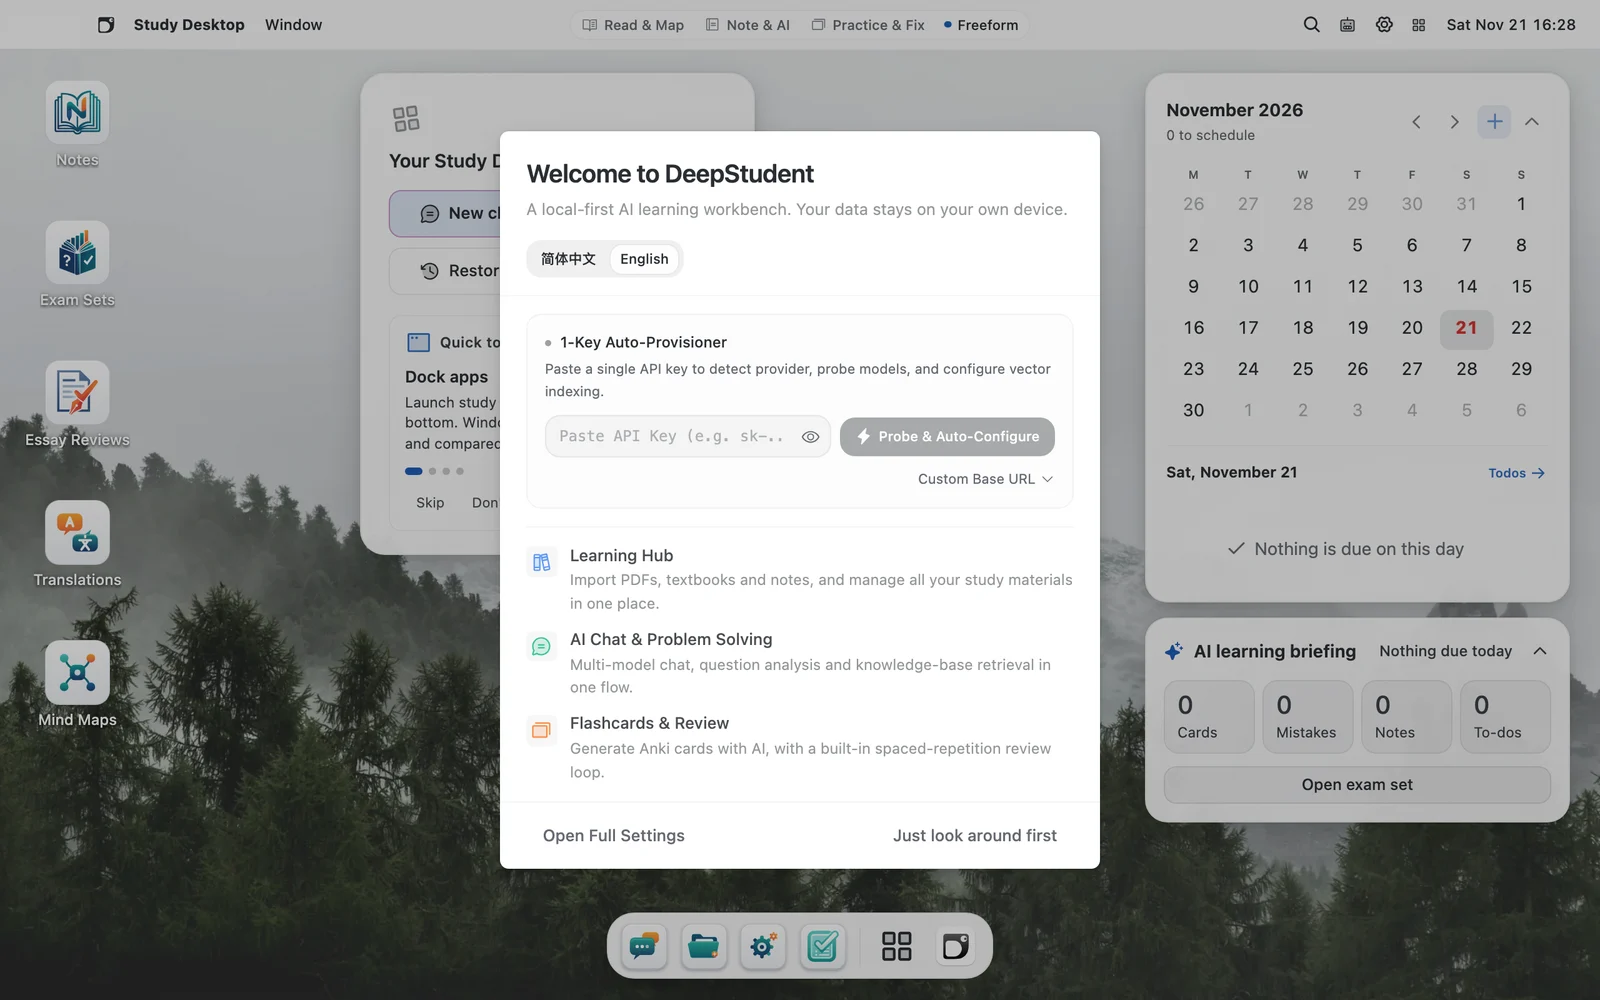
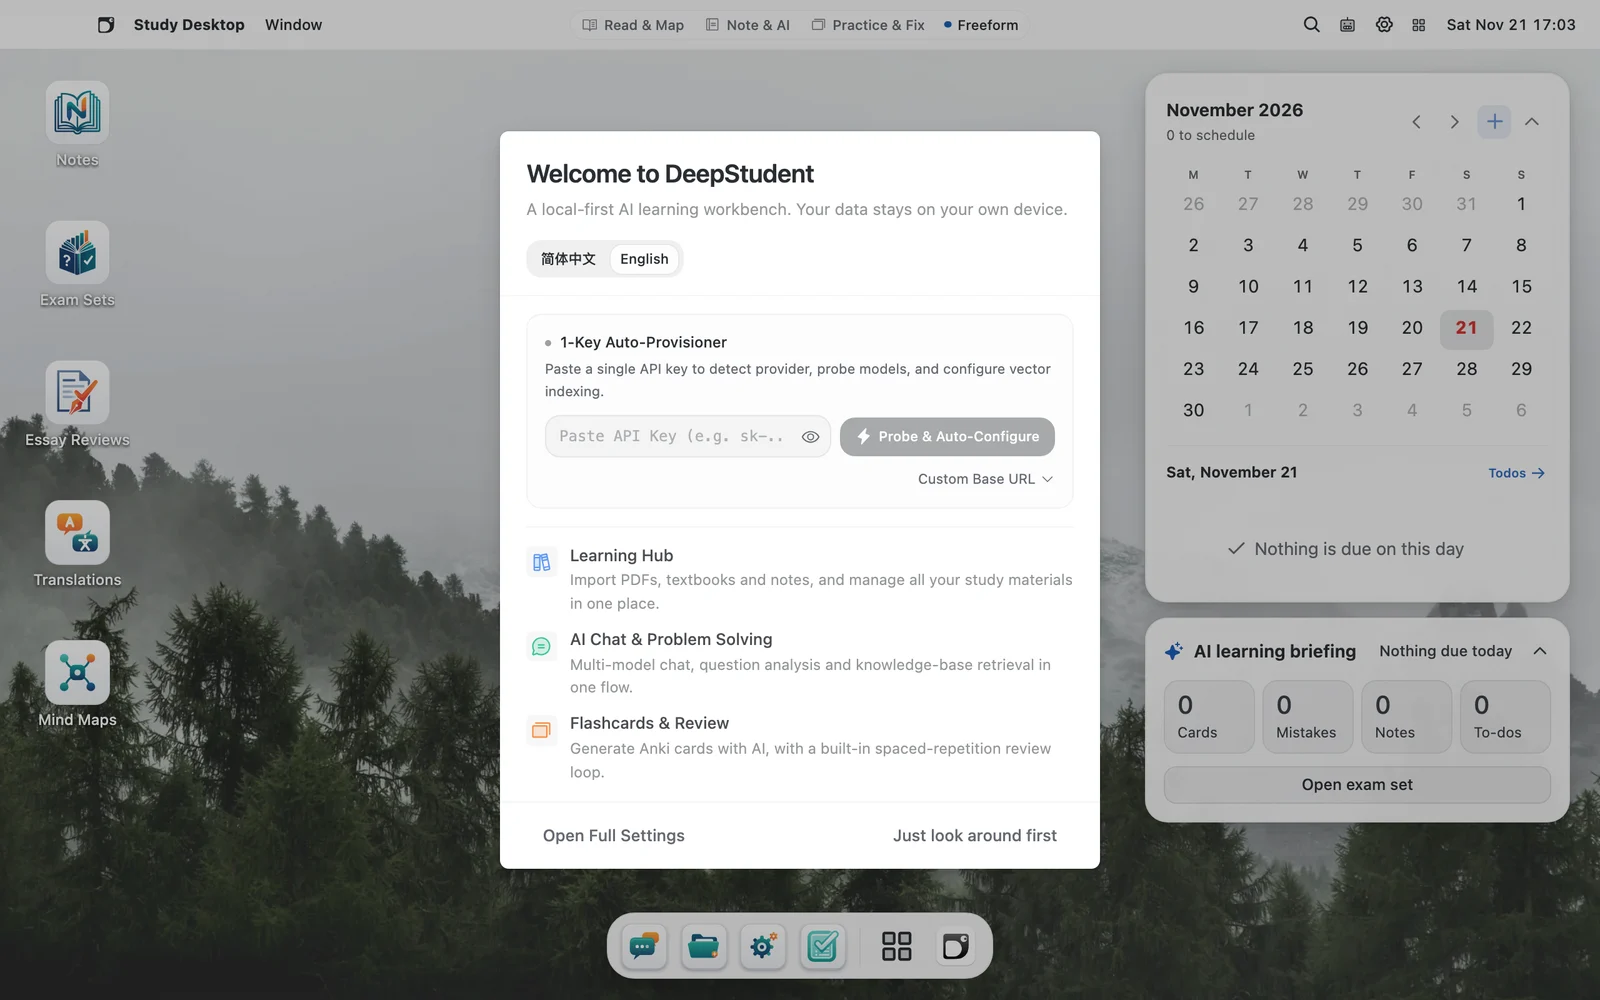
docs(images): 更新移除空桌面引导卡片后的学习桌面与欢迎弹窗截图

Changed region(s): [[0.2188, 0.155, 0.3125, 0.558], [0.25, 0.093, 0.2812, 0.124]]

diff --git a/docs/user-guide/workbench.md b/docs/user-guide/workbench.md
@@ -48,7 +48,7 @@ editLink: false
 
 - **右侧双桌面组件**：桌面右侧默认展示 **`日程`** 与 **`AI 学习简报`** 两个桌面组件。两张卡片既可以在设置中分别开关，也可以在组件标题栏点击折叠，方便在窄屏时腾出工作区宽度。
 - **双击空白处显示桌面**：在桌面空白区域双击，可以快速触发「显示桌面」（最小化全部窗口 / 再操作恢复）。
-- **桌面右键菜单**：在桌面空白处右键，可直接执行「新建对话」「打开资源库」「全部应用…」「整理窗口（平铺全部窗口 / 窗口俯瞰）」「桌面壁纸（含管理壁纸…与自定义图片）」「视觉材质」切换、「显示桌面组件」开关、「显示桌面 / 恢复窗口」「键盘快捷键」「重新查看引导」以及「桌面设置…」。
+- **桌面右键菜单**：在桌面空白处右键，可直接执行「新建对话」「打开资源库」「全部应用…」「整理窗口（平铺全部窗口 / 窗口俯瞰）」「桌面壁纸（含管理壁纸…与自定义图片）」「视觉材质」切换、「显示桌面组件」开关、「显示桌面 / 恢复窗口」「键盘快捷键」以及「桌面设置…」。
 
 ### Dock
 
@@ -73,7 +73,7 @@ editLink: false
 
 ### 第一次打开与布局快照恢复
 
-- 桌面中间会显示「你的学习桌面」卡片，提供「新建对话」「打开资源库」「查看待办」「闪卡」「全部应用」等快速入口；首次使用会弹出四步引导，之后随时可在桌面右键菜单里「重新查看引导」。
+- 桌面上没有打开窗口时保持清爽壁纸，可通过底部 Dock、桌面快捷方式或右键菜单快速打开任意应用；存在可恢复的上次桌面快照时，顶部居中会显示轻量的「恢复上次桌面」胶囊。
 - **退出保存与启动恢复**：关闭应用时当前窗口状态会自动保存，下次启动时可在空桌面点击「恢复上次桌面（N 个窗口）」一键还原；若想每次启动自动恢复，到「设置 → 学习桌面」开启「启动时自动恢复上次桌面」（默认关闭以加快启动）。
 - **与学习空间联动的布局快照恢复**：在学习空间设置里绑定「学习桌面布局预设」后，切换学习空间时系统会自动保存前一个空间的窗口布局，并恢复目标空间的窗口布局快照（同时提示「已恢复空间桌面布局」），不同科目各有一套整洁的工作台。
 
